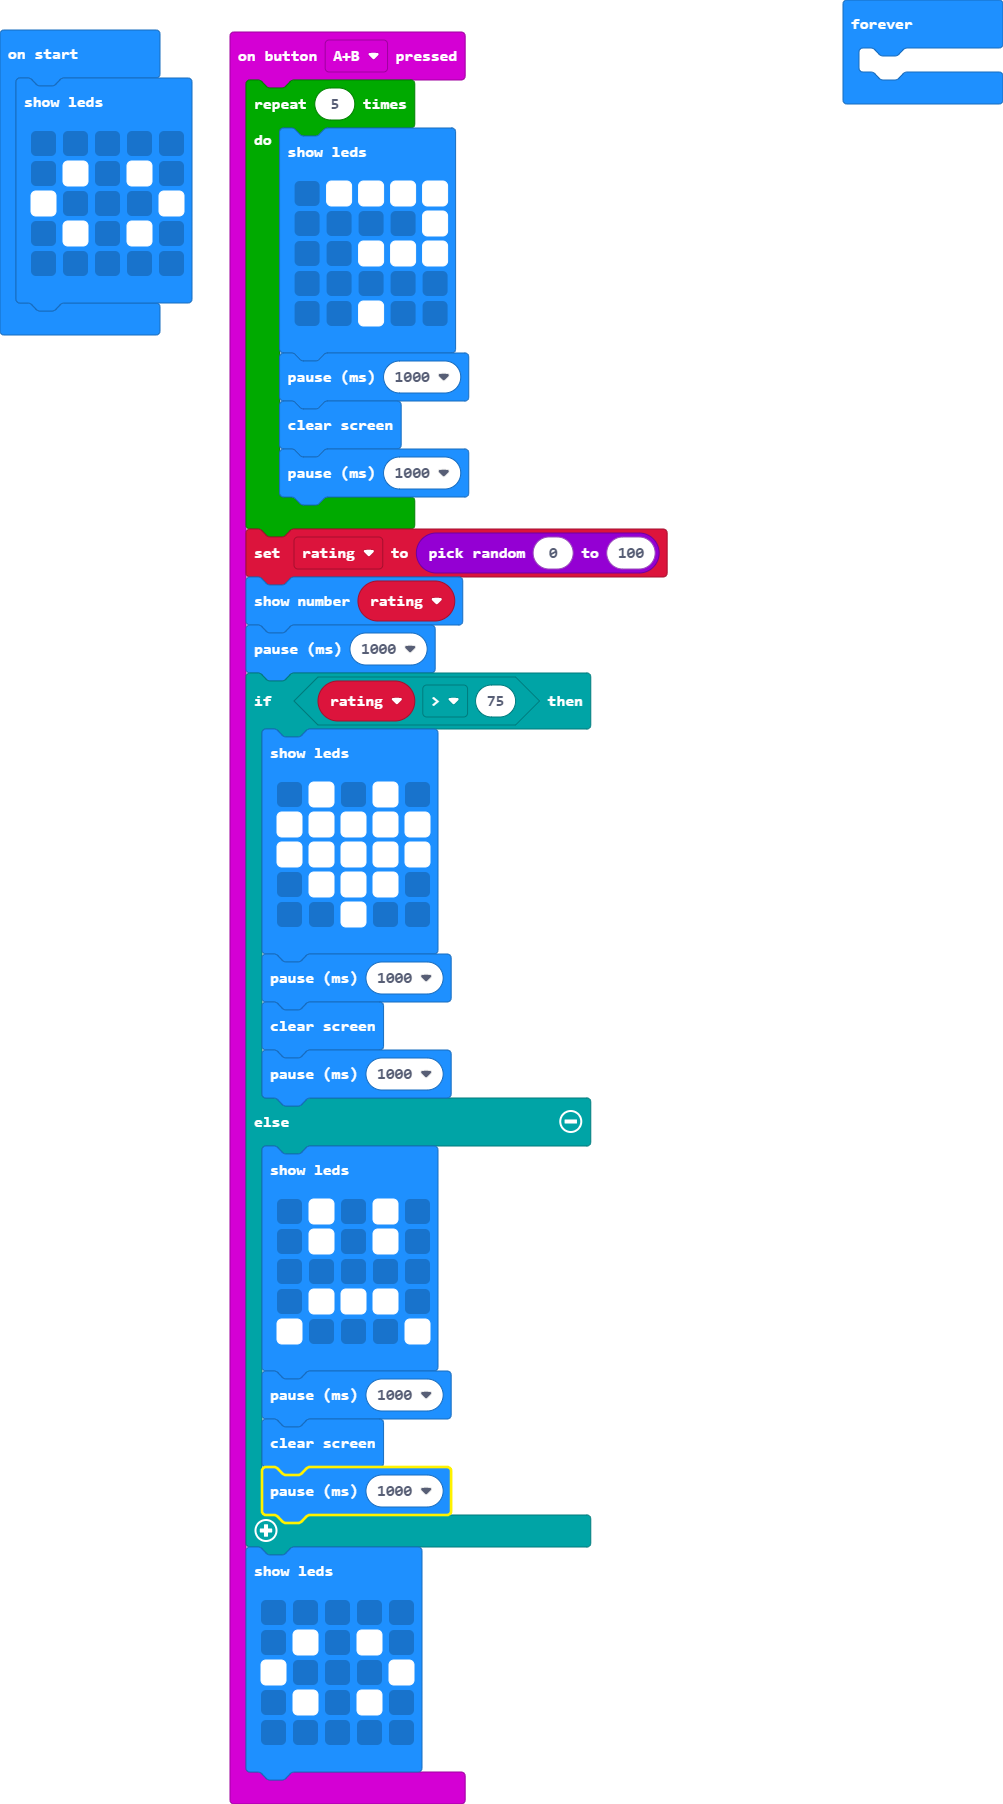
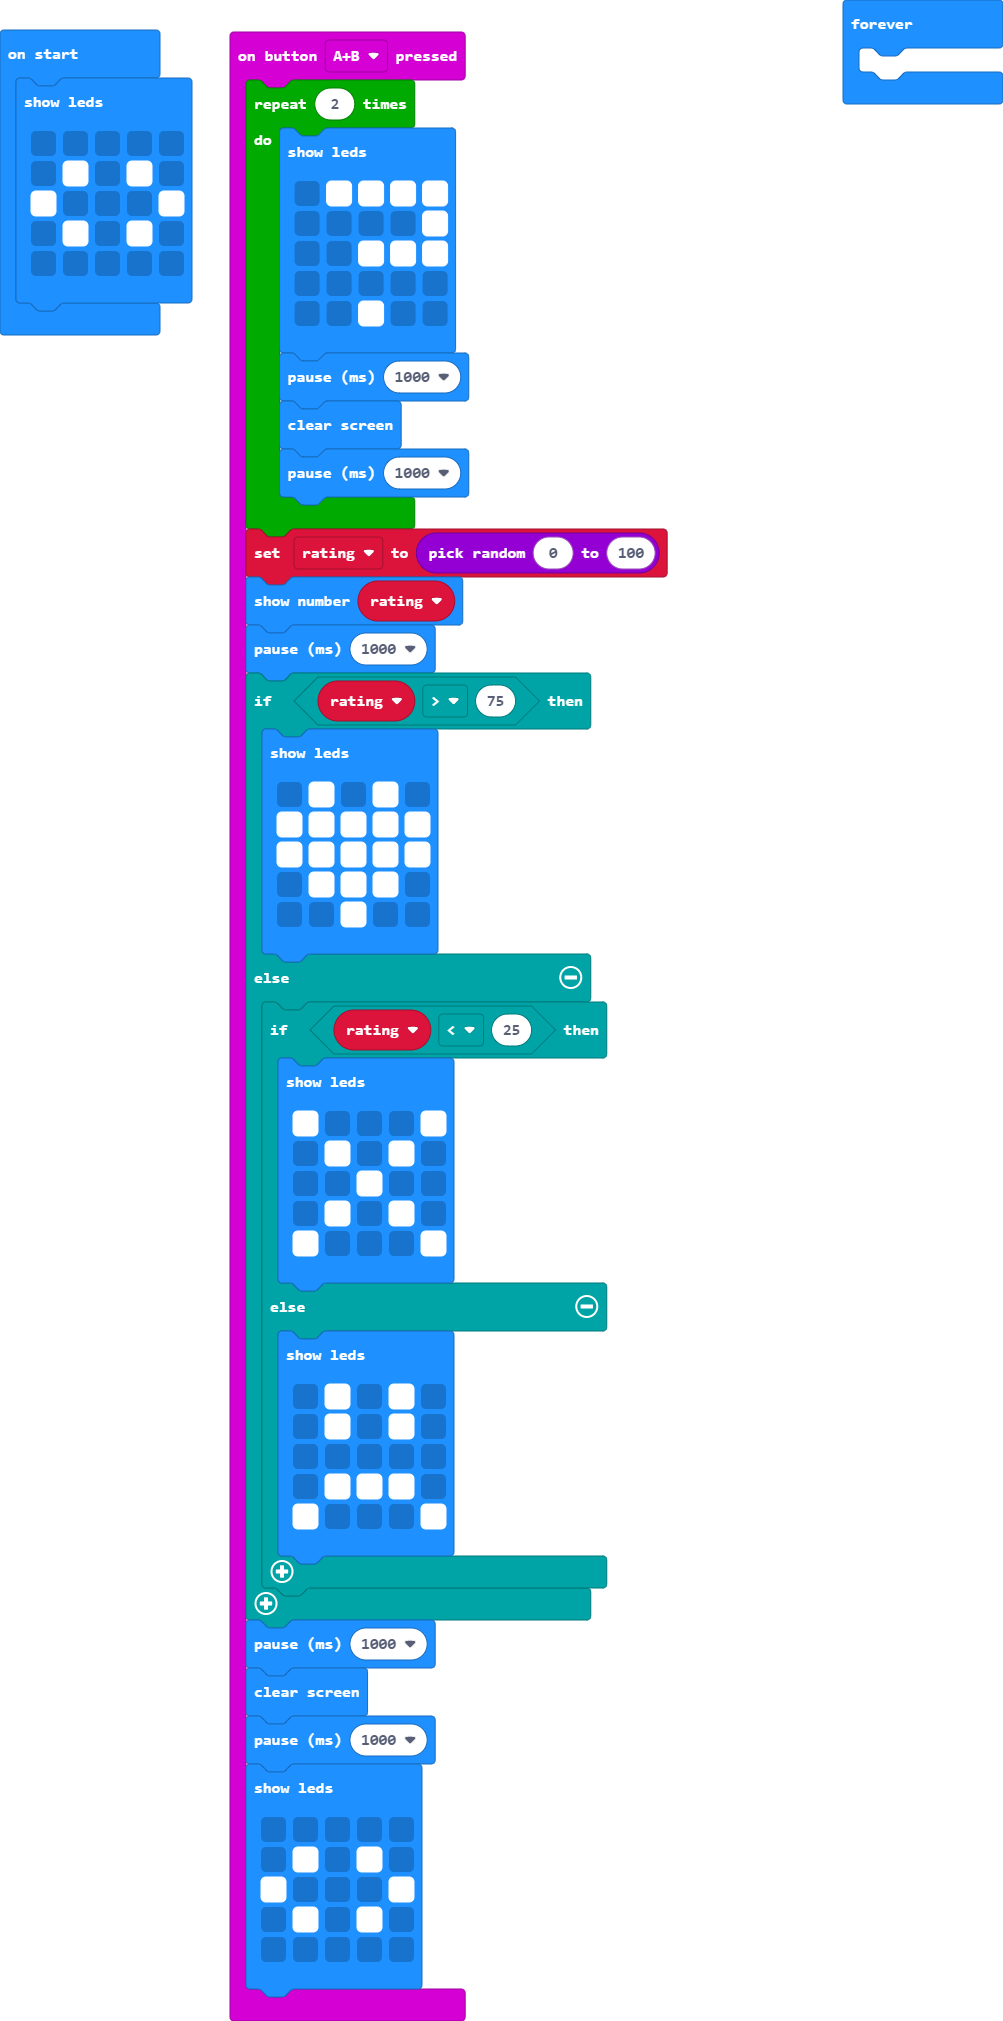
Update main.blocks, main.ts

Changed region(s): [[0.2164, 0.0, 0.68, 0.9933], [0.0, 0.0, 0.1854, 0.1863], [0.8345, 0.0, 1.0, 0.0621]]

diff --git a/main.ts b/main.ts
@@ -1,5 +1,5 @@
 input.onButtonPressed(Button.AB, function () {
-    for (let index = 0; index < 5; index++) {
+    for (let index = 0; index < 2; index++) {
         basic.showLeds(`
             . # # # #
             . . . . #
@@ -22,21 +22,28 @@ input.onButtonPressed(Button.AB, function () {
             . # # # .
             . . # . .
             `)
-        basic.pause(1000)
-        basic.clearScreen()
-        basic.pause(1000)
     } else {
-        basic.showLeds(`
-            . # . # .
-            . # . # .
-            . . . . .
-            . # # # .
-            # . . . #
-            `)
-        basic.pause(1000)
-        basic.clearScreen()
-        basic.pause(1000)
+        if (rating < 25) {
+            basic.showLeds(`
+                # . . . #
+                . # . # .
+                . . # . .
+                . # . # .
+                # . . . #
+                `)
+        } else {
+            basic.showLeds(`
+                . # . # .
+                . # . # .
+                . . . . .
+                . # # # .
+                # . . . #
+                `)
+        }
     }
+    basic.pause(1000)
+    basic.clearScreen()
+    basic.pause(1000)
     basic.showLeds(`
         . . . . .
         . # . # .
